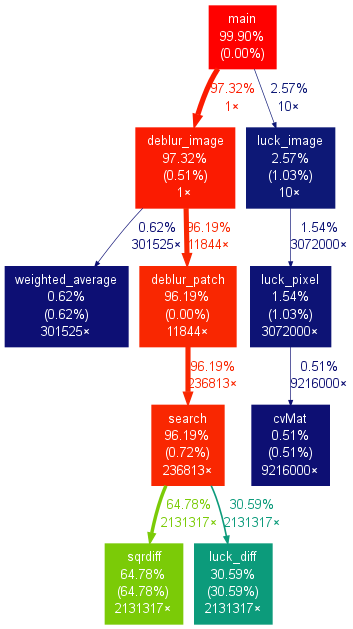
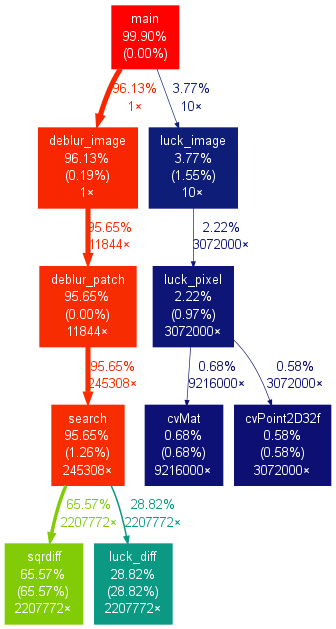
去掉了部分注释

diff --git a/deblur.c b/deblur.c
@@ -140,21 +140,6 @@ static int deblur_patch(IplImage *blur[], IplImage *luck[], int image_num, int n
 			searchY = my ; 
 			tmpDiff = search(blur[j] , images[n] , luck[j] , &searchX , &searchY , &pos , 2 ) ;
 
-			/*if( searchX == mx && searchY == my)*/
-			/*{*/
-				/*flag = CENTER ;*/
-			/*}else*/
-			/*if( searchX == mx -2 && searchY == my -2*/
-					/*|| searchX == mx -2 && searchY == my + 2*/
-					/*|| searchX == mx + 2 && searchY == my + 2*/
-					/*|| searchX == mx +2 && searchY == my -2 )*/
-			/*{*/
-				/*flag = CORNER ;*/
-			/*} else*/
-			/*{*/
-				/*flag = BORD ;*/
-			/*}*/
-
 			if( pos == CENTER )
 			{
 					flag = -1 ;
@@ -172,20 +157,9 @@ static int deblur_patch(IplImage *blur[], IplImage *luck[], int image_num, int n
 				if( searchX -2 >= left && searchX + 2 <= right 
 						&& searchY -2 >= top && searchY + 2 <= bottom)
 				{
-					/*search(blur[j] , images[n] , luck[j] , &newX , &newY , &pos , 2 ) ;*/
-					/*if( newX == searchX && newY == searchY  )*/
-					/*{*/
-						/*mindiff = search(blur[j] , images[n] , luck[j] , &newX , &newY , &pos , 1 ) ;*/
-						/*minj = j ; */
-						/*minx = newX ;*/
-						/*miny = newY ;*/
-						/*flag = -1; */
-					/*}*/
-					/*else*/
-					/*{*/
-					/* */   mx = newX ;
-					/* */   my = newY ;
-					/*}*/
+					   mx = newX ;
+					   my = newY ;
+					
 				}
 				else
 				{
@@ -196,26 +170,6 @@ static int deblur_patch(IplImage *blur[], IplImage *luck[], int image_num, int n
 					flag = -1; 
 				}
 			}
-			/*else */
-			/*{*/
-				/*int newX , newY ;*/
-				/*newX = searchX ;*/
-				/*newY = searchY ;*/
-				/*search(blur[j] , images[n] , luck[j] , &newX , &newY , 2 ) ;*/
-				/*if( newX == searchX && newY == searchY  )*/
-				/*{*/
-					/*mindiff = search(blur[j] , images[n] , luck[j] , &newX , &newY , 1 ) ;*/
-					/*minj = j ; */
-					/*minx = newX ;*/
-					/*miny = newY ;*/
-					/*flag = CENTER ;*/
-				/*}*/
-				/*else*/
-				/*{*/
-					/*mx = newX ;*/
-					/*my = newY ;*/
-				/*}*/
-			/*}*/
 			if( flag == -1)
 				break ;
 		}
